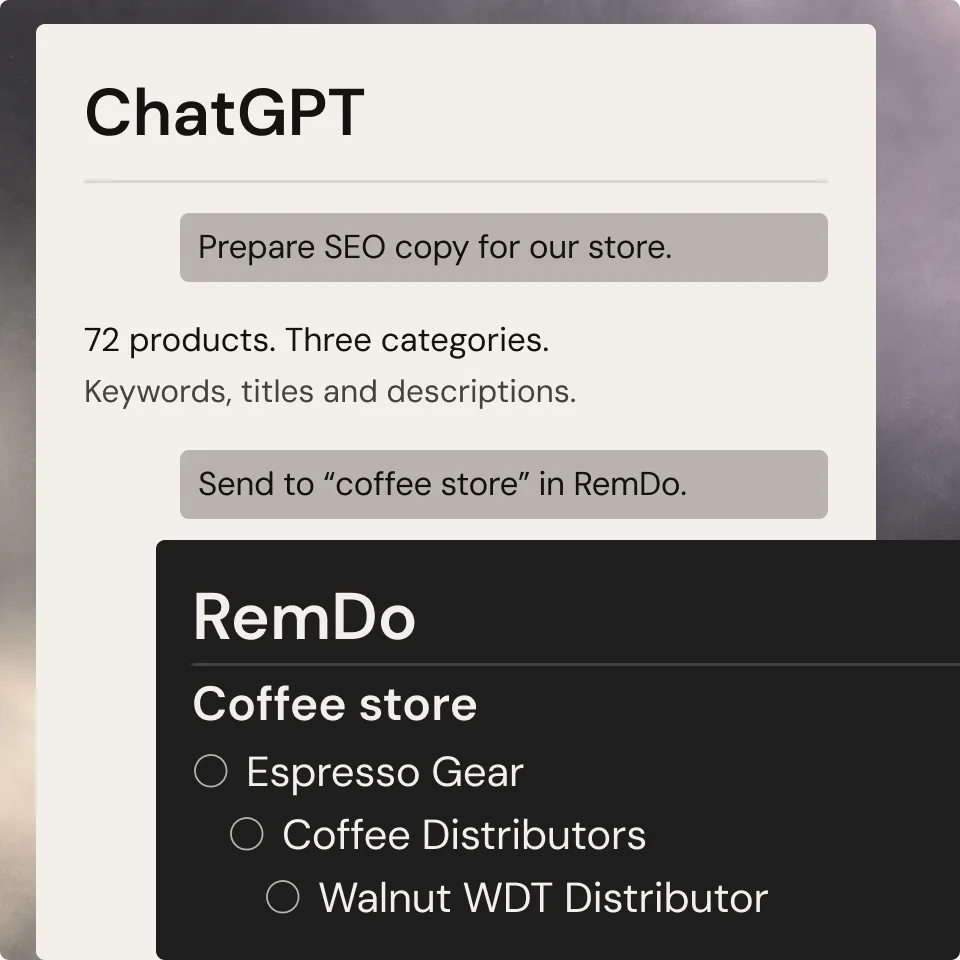
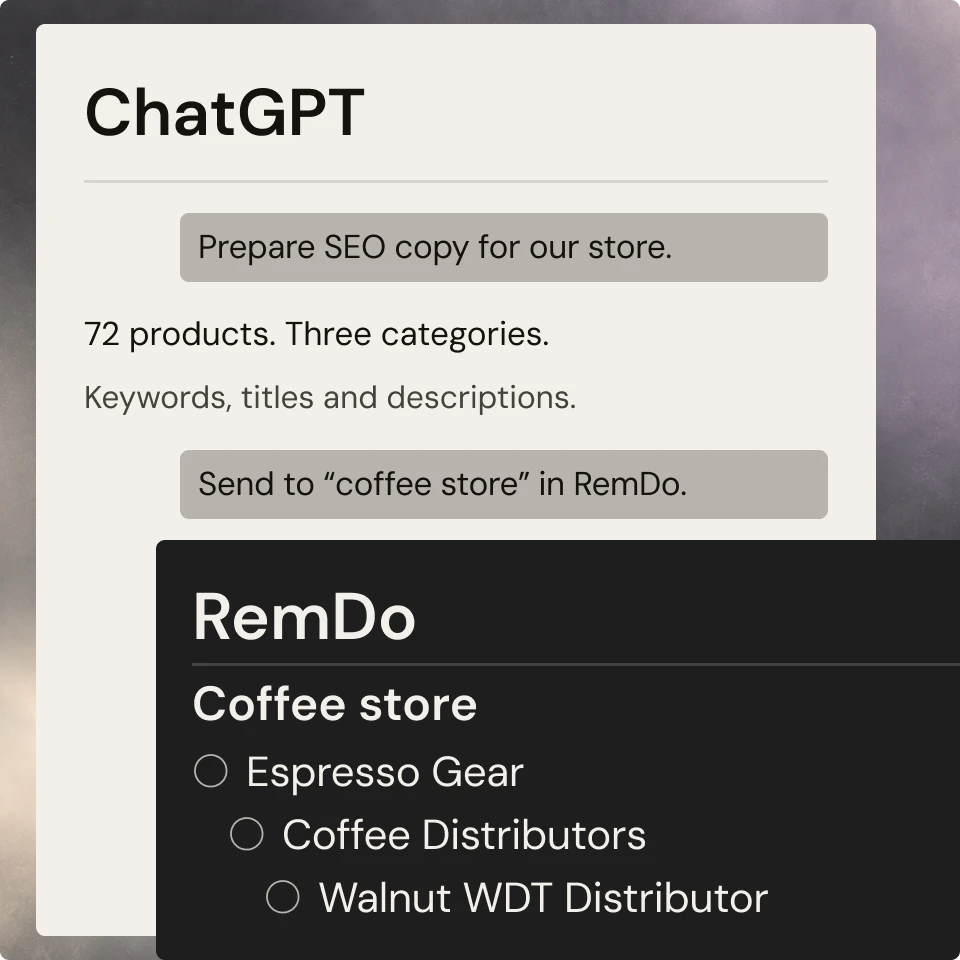
feat(blog): update SEO case study and add article CTAs

Changed region(s): [[0.0938, 0.3125, 0.5938, 0.4375], [0.0312, 0.9688, 0.1875, 1.0], [0.2812, 0.3125, 0.3125, 0.3438]]

diff --git a/src/client/ui/styles/landing-blog.css b/src/client/ui/styles/landing-blog.css
@@ -136,7 +136,7 @@
   line-height: 40px;
   letter-spacing: 0;
 }
-.landing-blog-body > p:first-child {
+.landing-blog-body > p:first-child, .landing-blog-body > p.landing-blog-lede {
   color: var(--landing-light-text);
   font-size: 22px;
   line-height: 34px;
@@ -191,6 +191,46 @@
   margin-top: 12px;
   font-size: 14px;
   line-height: 20px;
+}
+.landing-blog-cta {
+  position: relative;
+  isolation: isolate;
+  margin-top: 48px;
+  padding: 32px;
+}
+.landing-blog-cta-glow {
+  position: absolute;
+  z-index: -1;
+  inset: 0;
+  width: 100%;
+  height: 100%;
+  object-fit: cover;
+}
+.landing-blog-cta .landing-cta-card {
+  min-height: 0;
+  padding: 48px;
+}
+.landing-blog-cta h2 {
+  font-size: 62px;
+  line-height: 66px;
+  letter-spacing: -1.1px;
+}
+.landing-blog-cta form {
+  max-width: 100%;
+}
+.landing-blog-cta .remdo-google-button {
+  gap: 12px;
+}
+.landing-blog-cta .remdo-google-button svg {
+  flex: none;
+  width: 20px;
+  height: 20px;
+}
+.landing-blog-cta .landing-cta-note {
+  font-size: 16px;
+  line-height: 25px;
+  letter-spacing: -0.1px;
+  text-align: center;
 }
 .landing-blog-article-footer {
   display: flex;
@@ -265,7 +305,7 @@
     font-size: 28px;
     line-height: 36px;
   }
-  .landing-blog-body > p:first-child {
+  .landing-blog-body > p:first-child, .landing-blog-body > p.landing-blog-lede {
     font-size: 18px;
     line-height: 30px;
     letter-spacing: 0;
@@ -274,6 +314,24 @@
     float: none;
     width: auto;
     margin: 24px 0 0;
+  }
+  .landing-blog-cta {
+    margin-top: 40px;
+    padding: 16px;
+  }
+  .landing-blog-cta .landing-cta-card {
+    gap: 24px;
+    padding: 24px;
+  }
+  .landing-blog-cta h2 {
+    font-size: 48px;
+    line-height: 50px;
+    letter-spacing: 0;
+  }
+  .landing-blog-cta .landing-cta-note {
+    font-size: 14px;
+    line-height: 20px;
+    letter-spacing: 0;
   }
   .landing-blog-article-footer {
     margin-top: 48px;

diff --git a/backend/templates/pages/blog/cta.html b/backend/templates/pages/blog/cta.html
@@ -1,0 +1,8 @@
+<section class="landing-blog-cta" aria-labelledby="blog-cta-title">
+  <img class="landing-blog-cta-glow" src="/site-assets/footer-glow.webp" alt="" width="1536" height="1024" loading="lazy" decoding="async">
+  <div class="landing-cta-card">
+    <h2 id="blog-cta-title">Try RemDo now.</h2>
+    {% include "pages/landing/sign_in.html" %}
+    <p class="landing-cta-note">Free and open source. Self-host if you prefer.</p>
+  </div>
+</section>

diff --git a/backend/templates/pages/blog/post.html b/backend/templates/pages/blog/post.html
@@ -12,6 +12,7 @@
     </p>
   </header>
   <div class="landing-blog-body">{{ body|safe }}</div>
+  {% include "pages/blog/cta.html" %}
   <footer class="landing-blog-article-footer">
     <a class="landing-blog-link" href="/blog/"><span aria-hidden="true">←</span> All posts</a>
     {% if next_post %}

diff --git a/backend/remdo/test_blog.py b/backend/remdo/test_blog.py
@@ -87,6 +87,12 @@ class BlogTests(SimpleTestCase):
         self.assertContains(response, "October 7, 2026</time> | 1 min read")
         self.assertContains(response, "<p>Lede.</p>", html=True)
         self.assertContains(response, "<h2>Section</h2>", html=True)
+        content = response.content.decode()
+        self.assertLess(content.index("<p>Text.</p>"), content.index("Try RemDo now."))
+        self.assertLess(content.index("Try RemDo now."), content.rindex("All posts"))
+        self.assertContains(response, 'method="post" action="/accounts/google/login/"')
+        self.assertContains(response, 'name="csrfmiddlewaretoken"')
+        self.assertContains(response, "Free and open source. Self-host if you prefer.")
         self.assertContains(
             response,
             '<a class="landing-blog-link" href="/blog/"><span aria-hidden="true">←</span> All posts</a>',

diff --git a/content/blog/manage-your-stores-seo-content-with-chatgpt-and-remdo.md b/content/blog/manage-your-stores-seo-content-with-chatgpt-and-remdo.md
@@ -8,39 +8,75 @@ image: /site-assets/blog/seo-cover.webp
 
 <!-- markdownlint-disable relative-links -->
 
-An online store can need SEO content for hundreds of product and category pages.
-Each page needs relevant keywords, a title and a description. ChatGPT can
-prepare drafts in batches, with a template that defines the required fields. As
-the catalogue grows, those drafts need a clear structure for review and future
-changes. RemDo keeps this content in one place, organised by the categories,
-subcategories and products in the store.
+An online store’s SEO content is rarely finished all at once. Some product pages
+are ready to update, others need better titles, and another category still needs
+descriptions. The person managing this work needs to keep the whole catalogue
+consistent while giving each product the right wording. ChatGPT can help prepare
+the drafts. Keeping those drafts useful throughout the project takes some
+organisation.
 
-## From draft to website
+<p class="landing-blog-lede">
+In our coffee store example, RemDo becomes the working reference for that
+content. It is an outliner, so the document follows the store’s categories,
+subcategories and products. The person managing SEO can work on an individual
+page while keeping its place in the wider catalogue. Keywords, titles and
+descriptions stay attached to the products they describe, ready for review or
+the next website update.
+</p>
+
+## Consistency across the catalogue
+
+Similar products create small decisions that repeat across a store. Which terms
+should appear in their titles? Does each description explain the relevant
+differences? Does the wording match the product details? Reviewing entries
+together makes these decisions easier to compare and helps reveal wording that
+needs another look.
+
+For this store, the template contains the four fields needed for Yoast SEO: a
+focus keyphrase, SEO title, slug and meta description. We define it in RemDo as
+a tree, with Category, Subcategory and Product above the SEO fields. The
+connector lets ChatGPT read this structure and save its drafts under the right
+products. The same approach can work with other AI assistants that connect to
+RemDo. The first video shows how we create the template and ask ChatGPT to use
+it for one product.
 
 <figure>
   <video controls playsinline preload="none" width="1920" height="1080"
-    poster="/site-assets/blog/seo-video-poster.webp">
-    <source src="https://share.remdo.com/blog/seo-workflow.mp4" type="video/mp4">
+    poster="/site-assets/blog/seo-template-poster.webp">
+    <source src="https://share.remdo.com/blog/seo-template.mp4" type="video/mp4">
   </video>
-  <figcaption>SEO drafts from ChatGPT, organised in RemDo and copied into
-  Yoast SEO.</figcaption>
+  <figcaption>Defining an SEO template in RemDo and using it for the first product.</figcaption>
 </figure>
 
-## Keep your SEO content together
+## The right content when a page needs attention
 
-The RemDo connector lets ChatGPT and other AI assistants save batches of content
-directly into your documents. Each product keeps its keywords and SEO copy
-together, within the wider store catalogue. You can compare title options, check
-descriptions against product details and revise related entries in the same
-document. This structure helps keep terms consistent across a product range. The
-content remains available between editing sessions, with each draft connected to
-the page it belongs to.
+As more drafts arrive, the document becomes a place to manage the ongoing work.
+The person responsible for SEO can review related products together, consider
+different title wording and check descriptions against catalogue details. Each
+entry contains the fields for one page, with the surrounding category available
+for context. This supports both the detailed work on a product and the broader
+review of a range.
 
-## Use a template that fits your website
+When a page is ready for an update, its content is already grouped in RemDo. The
+person editing the website can use those fields in Yoast SEO, then continue with
+the next product. Yoast is the example here, but the template can follow the
+requirements of another plugin or website. RemDo holds the working catalogue
+throughout that process.
 
-The template can match the fields used on your website. These can include a
-focus keyphrase, SEO title, slug and meta description for Yoast SEO or another
-WordPress plugin. After reviewing the copy, you can copy the relevant fields
-into the website. RemDo remains the working reference for later changes to
-keywords, product details or wording. Separate documents keep each store’s
-catalogue and SEO content together.
+<figure>
+  <video controls playsinline preload="none" width="1920" height="1080"
+    poster="/site-assets/blog/seo-catalogue-poster.webp">
+    <source src="https://share.remdo.com/blog/seo-catalogue.mp4" type="video/mp4">
+  </video>
+  <figcaption>Managing the coffee store’s product content in RemDo and using it
+  in Yoast SEO.</figcaption>
+</figure>
+
+## A starting point for the next update
+
+The value of this catalogue continues after the first website update. Product
+details may change, a title may need another version, or a new range may need
+content. The person managing SEO can return to the relevant products with the
+existing wording and category context already available. For another store, a
+separate document can hold its own catalogue and requirements. The next task
+starts with the product and the work already prepared for it.

diff --git a/docs/guides/blog.md b/docs/guides/blog.md
@@ -29,6 +29,10 @@ Write the post here. Use **bold text**, lists, and [links](https://example.com).
 
 Write `date` unquoted. Add `author` to credit someone other than the RemDo team.
 
+The first paragraph uses the lede style automatically. To extend that style
+to another opening paragraph, wrap it in `<p class="landing-blog-lede">`
+and `</p>`, with no blank lines inside the block.
+
 The `image` is a square cover shown beside the post in the index. Use a file
 under `public/site-assets/blog/`, such as one of the covers already there, or
 add a square WebP of at least 720 pixels. The path is not checked, so confirm
@@ -48,7 +52,7 @@ Use raw HTML for a caption or a video, keeping blank lines out of the block:
 <figure>
   <video controls playsinline preload="none" width="1280" height="720"
     poster="/site-assets/blog/clip-poster.webp">
-    <source src="https://share.remdo.com/blog/clip.mp4" type="video/mp4">
+    <source src="/site-assets/blog/clip.mp4" type="video/mp4">
   </video>
   <figcaption>What the clip shows.</figcaption>
 </figure>
@@ -59,13 +63,14 @@ until the reader presses play. Add `class="landing-blog-float-right"` to the
 `<figure>` to float it into the top-right corner at 40% of the column, with
 text wrapping on the left; narrow screens show it full width above the text.
 
-Files in the repository ship in every image, so keep video out of it. Keep the
-clip short, encode it as H.264 MP4 with `-movflags +faststart`, and add it as
-`public/blog/<name>.mp4` in the
-[remdo-share](https://github.com/remdo-project/remdo-share) repository. Once
-pushed, it is served at `https://share.remdo.com/blog/<name>.mp4`; confirm that
-URL loads before merging the post. Keep the poster under
-`public/site-assets/blog/`. Embed only media this site or `share.remdo.com`
+Commit the post's media under `public/site-assets/blog/`, including the
+full-quality MP4 and its poster. Files in the repository ship in every image, so
+before merging, a maintainer encodes each video as H.264 MP4 with
+`-movflags +faststart`, adds it as `public/blog/<name>.mp4` in the
+[remdo-share](https://github.com/remdo-project/remdo-share) repository, points
+its source at `https://share.remdo.com/blog/<name>.mp4`, and amends or squashes
+the branch so no commit still holds the video. Confirm every media URL loads
+before merging the post. Embed only media this site or `share.remdo.com`
 serves: a third-party player sends readers' data to that service, which the
 [project principles](../principles.md#data-and-trust) allow only when the
 operator configures it.

diff --git a/docs/specs/site/blog.md b/docs/specs/site/blog.md
@@ -39,8 +39,11 @@ A post page shows, in order:
 
 1. An **All posts** link to `/blog/`.
 2. The title, the author, and the date followed by the reading time.
-3. The body; a paragraph that opens it is the lede and stands out from the rest.
-4. The **All posts** link again and, unless the post is last in the index, a
+3. The body; the lede stands out from the rest and can span multiple opening
+   paragraphs.
+4. A **Try RemDo now.** call to action using the site's sign-in entry and the
+   note **Free and open source. Self-host if you prefer.**
+5. The **All posts** link again and, unless the post is last in the index, a
    **Next post** teaser linking the entry that follows it in the index.
 
 The reading time is the body's word count divided by 200, rounded up and at
